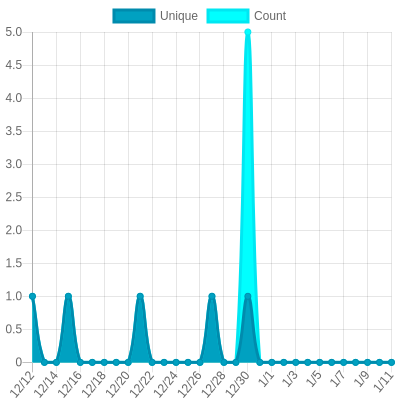
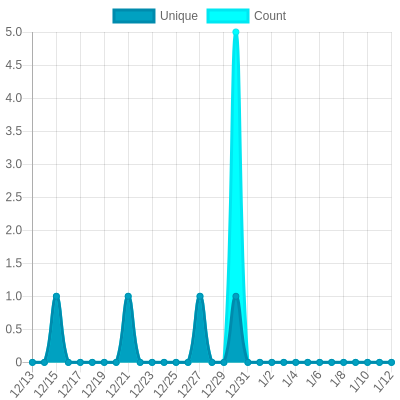
Update views

diff --git a/README.md b/README.md
@@ -67,9 +67,25 @@ The project created and maintained by [gayanvoice](https://github.com/gayanvoice
 			<img alt="Response time graph" src="https://github.com/jimbrig/profile-views/raw/master/graph/427463930/small/week.png" height="20"> 5731
 		</td>
 	</tr>
+	<tr>
+		<td>
+			<a href="https://github.com/jimbrig/profile-views/tree/master/readme/331031695/week.md">
+				jimsdots
+			</a>
+		</td>
+		<td>
+			2024/1/10 12:19 AM UTC
+		</td>
+		<td>
+			107
+		</td>
+		<td>
+			<img alt="Response time graph" src="https://github.com/jimbrig/profile-views/raw/master/graph/331031695/small/week.png" height="20"> 732
+		</td>
+	</tr>
 </table>
 
-<small><i>Last updated on 2024/1/12 12:19 AM UTC</i></small>
+<small><i>Last updated on 2024/1/12 6:06 AM UTC</i></small>
 
 ## ✂Copy and 📋 Paste
 ### Total Views Badge

diff --git a/readme/331031695/month.md b/readme/331031695/month.md
@@ -21,6 +21,17 @@
 	</tr>
 	<tr>
 		<td>
+			<code>2024/1/12</code>
+		</td>
+		<td>
+			<code>0</code>
+		</td>
+		<td>
+			<code>0</code>
+		</td>
+	</tr>
+	<tr>
+		<td>
 			<code>2024/1/11</code>
 		</td>
 		<td>
@@ -349,21 +360,10 @@
 			<code>0</code>
 		</td>
 	</tr>
-	<tr>
-		<td>
-			<code>2023/12/12</code>
-		</td>
-		<td>
-			<code>1</code>
-		</td>
-		<td>
-			<code>1</code>
-		</td>
-	</tr>
 </table>
 
 </details>
-<small><i>Last updated on 2024/1/11 6:06 PM UTC</i></small>
+<small><i>Last updated on 2024/1/12 6:06 AM UTC</i></small>
 
 ## ✂Copy and 📋 Paste
 ### SVG Badge

diff --git a/readme/331031695/week.md b/readme/331031695/week.md
@@ -21,6 +21,17 @@
 	</tr>
 	<tr>
 		<td>
+			<code>2024/1/12</code>
+		</td>
+		<td>
+			<code>0</code>
+		</td>
+		<td>
+			<code>0</code>
+		</td>
+	</tr>
+	<tr>
+		<td>
 			<code>2024/1/11</code>
 		</td>
 		<td>
@@ -96,21 +107,10 @@
 			<code>0</code>
 		</td>
 	</tr>
-	<tr>
-		<td>
-			<code>2024/1/4</code>
-		</td>
-		<td>
-			<code>0</code>
-		</td>
-		<td>
-			<code>0</code>
-		</td>
-	</tr>
 </table>
 
 </details>
-<small><i>Last updated on 2024/1/11 6:06 PM UTC</i></small>
+<small><i>Last updated on 2024/1/12 6:06 AM UTC</i></small>
 
 ## ✂Copy and 📋 Paste
 ### SVG Badge

diff --git a/readme/235878383/month.md b/readme/235878383/month.md
@@ -363,7 +363,7 @@
 </table>
 
 </details>
-<small><i>Last updated on 2024/1/12 12:18 AM UTC</i></small>
+<small><i>Last updated on 2024/1/12 6:06 AM UTC</i></small>
 
 ## ✂Copy and 📋 Paste
 ### SVG Badge

diff --git a/readme/235878383/week.md b/readme/235878383/week.md
@@ -110,7 +110,7 @@
 </table>
 
 </details>
-<small><i>Last updated on 2024/1/12 12:18 AM UTC</i></small>
+<small><i>Last updated on 2024/1/12 6:06 AM UTC</i></small>
 
 ## ✂Copy and 📋 Paste
 ### SVG Badge

diff --git a/readme/235878383/year.md b/readme/235878383/year.md
@@ -165,7 +165,7 @@
 </table>
 
 </details>
-<small><i>Last updated on 2024/1/12 12:18 AM UTC</i></small>
+<small><i>Last updated on 2024/1/12 6:06 AM UTC</i></small>
 
 ## ✂Copy and 📋 Paste
 ### SVG Badge

diff --git a/readme/285926530/month.md b/readme/285926530/month.md
@@ -363,7 +363,7 @@
 </table>
 
 </details>
-<small><i>Last updated on 2024/1/12 12:18 AM UTC</i></small>
+<small><i>Last updated on 2024/1/12 6:05 AM UTC</i></small>
 
 ## ✂Copy and 📋 Paste
 ### SVG Badge

diff --git a/readme/285926530/week.md b/readme/285926530/week.md
@@ -110,7 +110,7 @@
 </table>
 
 </details>
-<small><i>Last updated on 2024/1/12 12:18 AM UTC</i></small>
+<small><i>Last updated on 2024/1/12 6:05 AM UTC</i></small>
 
 ## ✂Copy and 📋 Paste
 ### SVG Badge

diff --git a/readme/285926530/year.md b/readme/285926530/year.md
@@ -165,7 +165,7 @@
 </table>
 
 </details>
-<small><i>Last updated on 2024/1/12 12:18 AM UTC</i></small>
+<small><i>Last updated on 2024/1/12 6:05 AM UTC</i></small>
 
 ## ✂Copy and 📋 Paste
 ### SVG Badge

diff --git a/readme/427463930/month.md b/readme/427463930/month.md
@@ -363,7 +363,7 @@
 </table>
 
 </details>
-<small><i>Last updated on 2024/1/12 12:19 AM UTC</i></small>
+<small><i>Last updated on 2024/1/12 6:06 AM UTC</i></small>
 
 ## ✂Copy and 📋 Paste
 ### SVG Badge

diff --git a/readme/427463930/week.md b/readme/427463930/week.md
@@ -110,7 +110,7 @@
 </table>
 
 </details>
-<small><i>Last updated on 2024/1/12 12:19 AM UTC</i></small>
+<small><i>Last updated on 2024/1/12 6:06 AM UTC</i></small>
 
 ## ✂Copy and 📋 Paste
 ### SVG Badge

diff --git a/readme/427463930/year.md b/readme/427463930/year.md
@@ -165,7 +165,7 @@
 </table>
 
 </details>
-<small><i>Last updated on 2024/1/12 12:19 AM UTC</i></small>
+<small><i>Last updated on 2024/1/12 6:06 AM UTC</i></small>
 
 ## ✂Copy and 📋 Paste
 ### SVG Badge
